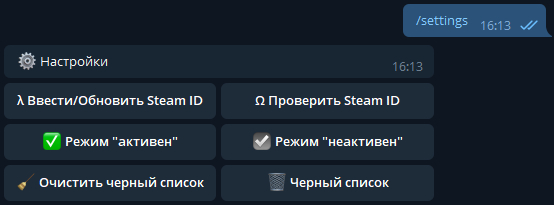
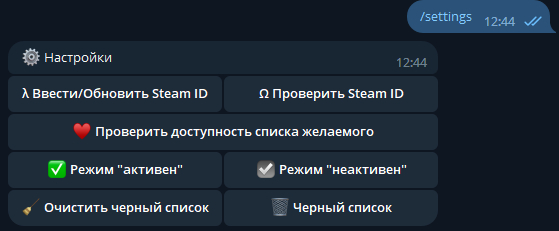
update settings image and description new feature in README.md

diff --git a/README.md b/README.md
@@ -46,6 +46,8 @@ Make the bot multilingual.<br/>
    ![image info](images/image02.jpg)
     - _"Set/Update Steam ID"_ - This is necessary for registration.
     - _"Check your steam ID"_ - Here you can see the installed steam ID and activity mode.
+    - _"Check available wishlist"_ - Checking that the wishlist is available and news on games from
+      the list will be received.
     - _"Set \"active\" mode"_ - Set the active mode. Only in this mode the bot will send you news.
     - _"Set \"inactive\" mode"_ - Set inactive mode if you are tired of the news in general.
     - _"Clear black list"_ - Clearing the blacklist.
